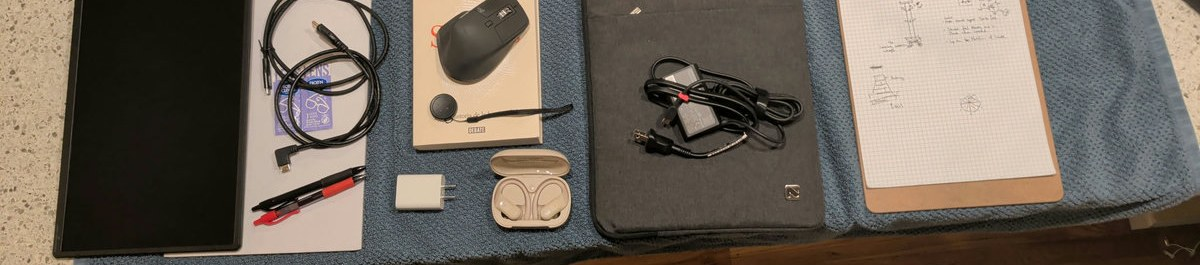
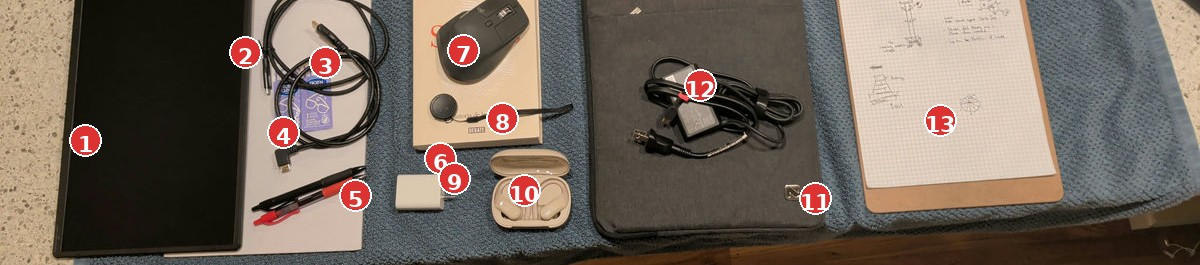
Update packing list: numbered items, annotated photo, backpack structure
Corrected all 13 item names from photo, added numbered labels overlaid on
the flat-lay image, restructured as backpack contents with toiletry bag
reference and clothing/don't-forget sections.

diff --git a/content/Overnight Packing List.md b/content/Overnight Packing List.md
@@ -8,25 +8,29 @@ date: 2026-09-07
 
 ![[media/overnight-kit.jpg]]
 
-A packing list for a two-night work trip. Toiletries are handled separately — see [[Toiletry Bag]].
+Packing list for a two-night work trip. Numbers correspond to items in the photo above.
 
-## Tech
+## Backpack
 
-- [ ] iPad + Apple Pencil
-- [ ] USB-C cables (×2 — one right-angle)
-- [ ] USB-C wall charger
-- [ ] Laptop in sleeve
-- [ ] Laptop power brick
-- [ ] Logitech MX Master mouse + USB receiver
-- [ ] Earbuds + case
-- [ ] SD card / USB drive
+### Tech
 
-## Analog
+- [ ] 1. External monitor
+- [ ] 2. HDMI cable
+- [ ] 3. USB-C cable (fast transfer)
+- [ ] 4. Lens cleaning wipes
+- [ ] 5. Pens (black + red)
+- [ ] 6. Book (for flight)
+- [ ] 7. Mouse (MX Master 3S)
+- [ ] 8. Watch charger
+- [ ] 9. USB-C wall adapter
+- [ ] 10. Earbuds + charging case
+- [ ] 11. Laptop (in sleeve)
+- [ ] 12. Laptop power adapter
+- [ ] 13. Clipboard + paper
 
-- [ ] Clipboard
-- [ ] Graph paper
-- [ ] Pen + red marker
-- [ ] Book
+### Toiletries
+
+- [ ] [[Toiletry Bag]] (packed separately)
 
 ## Clothing (2 nights)
 
@@ -37,9 +41,8 @@ A packing list for a two-night work trip. Toiletries are handled separately — 
 - [ ] Belt
 - [ ] Shoes (if not worn)
 
-## Personal
+## Don't forget
 
-- [ ] [[Toiletry Bag]] (packed separately)
 - [ ] Phone + charger
 - [ ] Wallet, keys, ID
 - [ ] Water bottle
